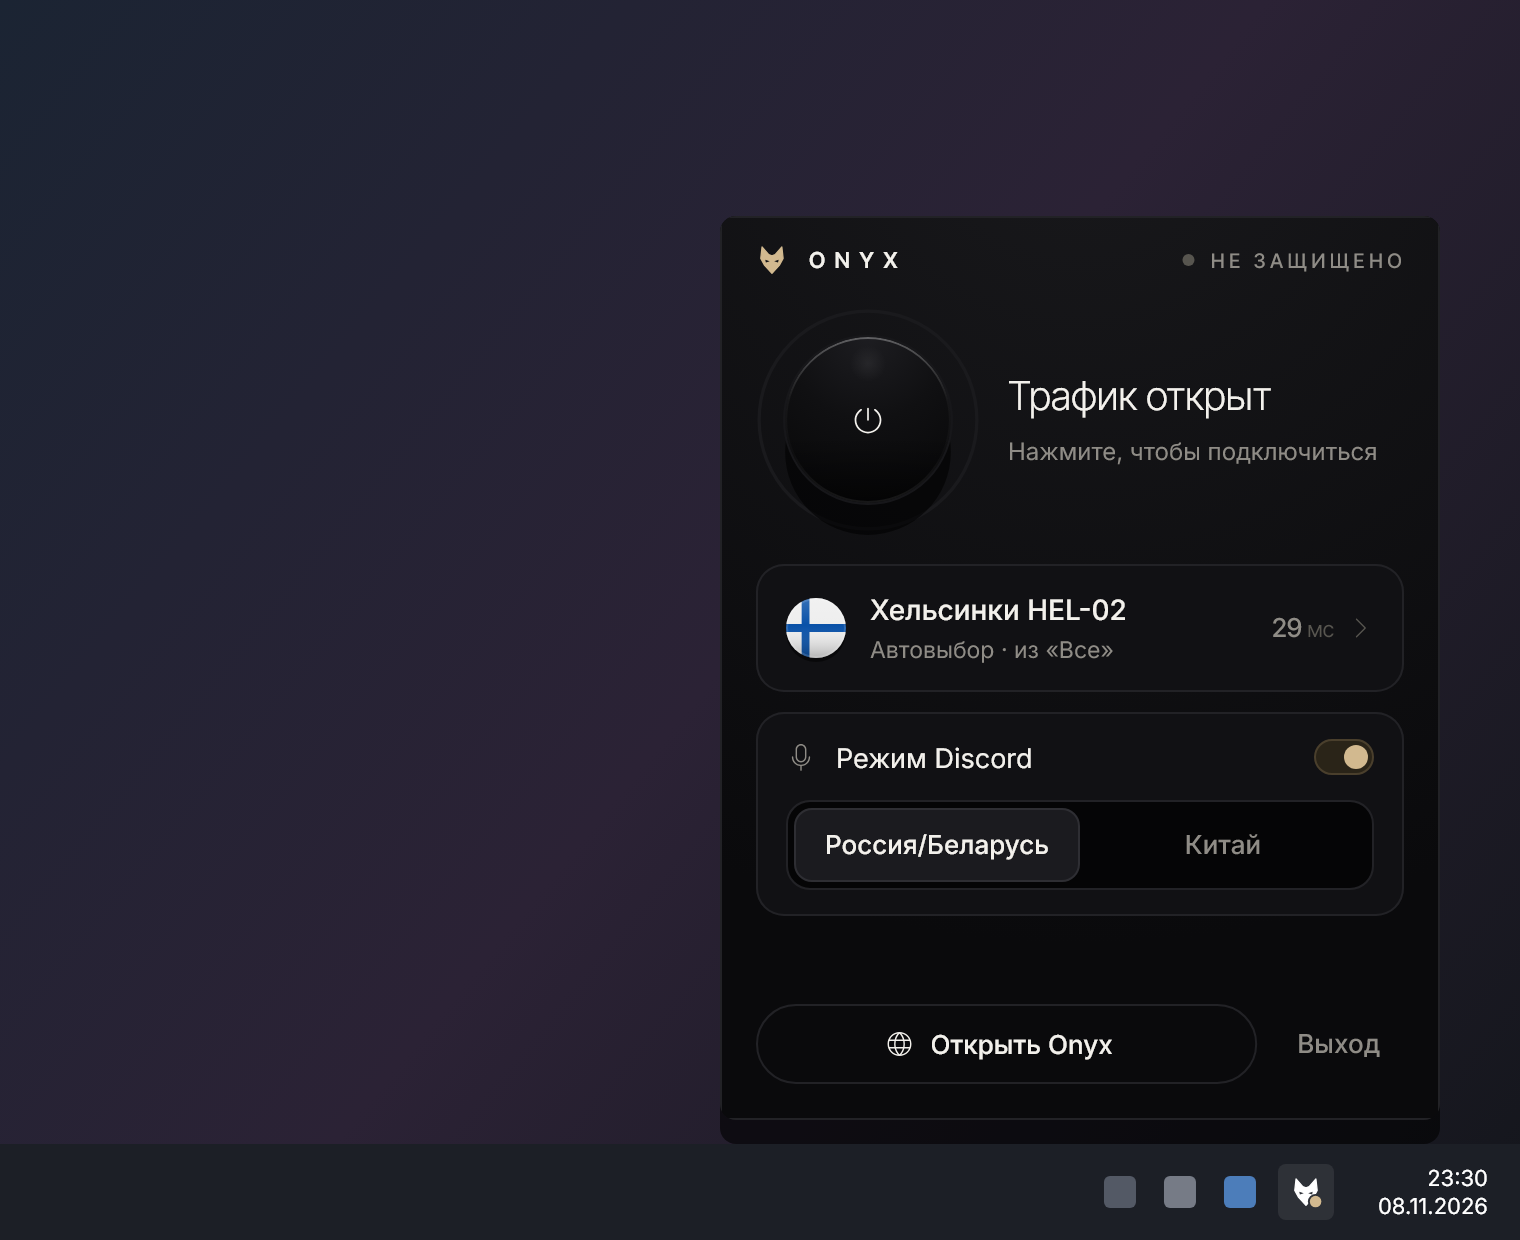
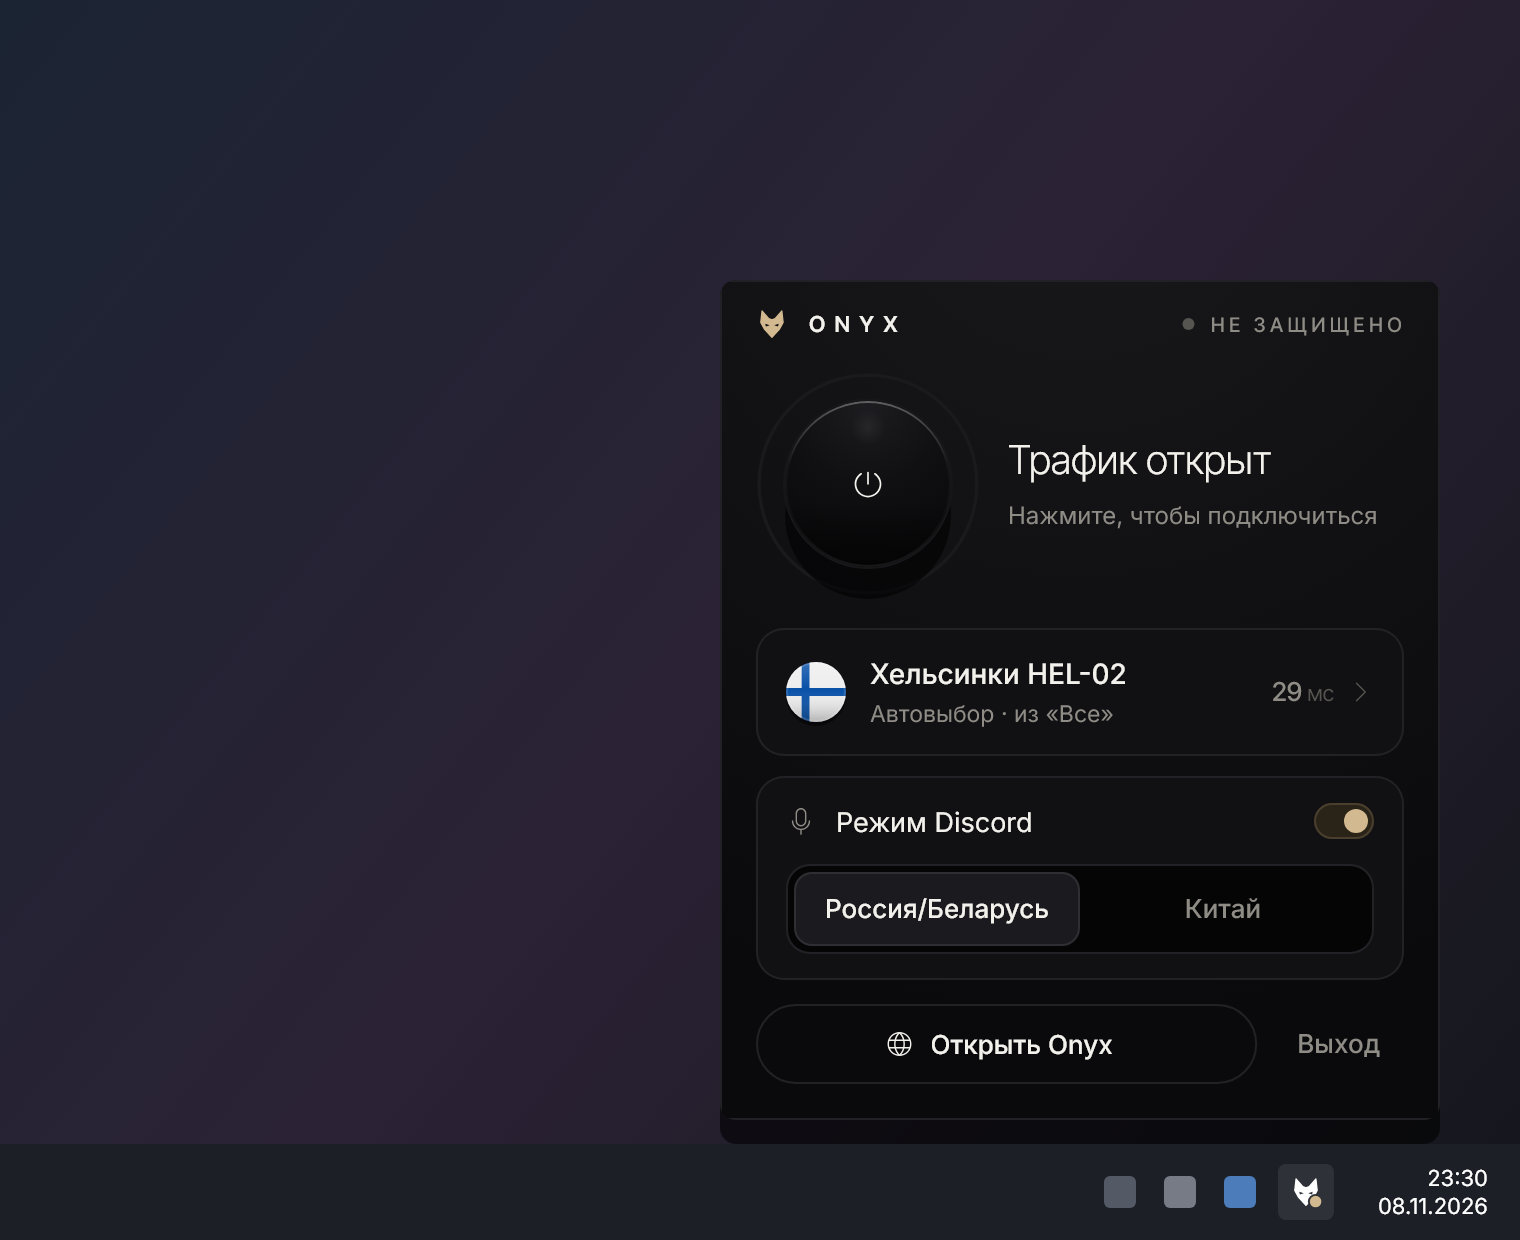
fix(tray): переходы окна по очереди, высота панели по содержимому (#46)
- Двойной клик по значку: второй щелчок приходил, пока панель ещё
  строилась, и терялся — переходы окна (панель, полное окно, трей) теперь
  идут строго по очереди.
- Высота панели 420 с выбором региона и 364 без него (умная маршрутизация
  выключена) — над кнопками больше нет пустоты; golden flyout-noregion.

Проверено на собранном exe: панель у значка в 12 px над панелью задач,
двойной клик возвращает полное окно на прежнее место, крестик выходит
через _exit().

diff --git a/lib/main.dart b/lib/main.dart
@@ -154,7 +154,8 @@ class _OnyxAppState extends ConsumerState<OnyxApp> with WindowListener, TrayList
   /// панели задач. Если значок не нашёлся — правый нижний угол основного
   /// монитора.
   Future<Rect> _flyoutRect() async {
-    const s = TrayFlyout.size, m = 12.0;
+    final s = TrayFlyout.sizeFor(region: ref.read(settingsProvider).smartRouting);
+    const m = 12.0;
     final (primary, areas) = await _workAreas();
     Rect? icon;
     try {
@@ -206,10 +207,24 @@ class _OnyxAppState extends ConsumerState<OnyxApp> with WindowListener, TrayList
     if (!_normalMaximized) _normalBounds = await windowManager.getBounds();
   }
 
+  Future<void> _queue = Future<void>.value();
+
+  /// Переходы окна — строго по очереди (второй щелчок двойного клика
+  /// приходит, пока панель ещё строится). Пока идёт переход, потеря фокуса и
+  /// сворачивание панель не трогают.
+  Future<void> _serial(Future<void> Function() step) => _queue = _queue.then((_) async {
+        _switching = true;
+        try {
+          await step();
+        } catch (e) {
+          log.w('Окно: переход не удался ($e)', tag: 'MAIN');
+        } finally {
+          _switching = false;
+        }
+      });
+
   Future<void> _showFlyout() async {
-    if (_switching) return;
-    _switching = true;
-    try {
+    await _serial(() async {
       final minimized = await windowManager.isMinimized();
       if (!_flyout) _flyoutFromWindow = !minimized && await windowManager.isVisible();
       // Из свёрнутого и развёрнутого состояний панель не построить: Windows
@@ -235,7 +250,7 @@ class _OnyxAppState extends ConsumerState<OnyxApp> with WindowListener, TrayList
       await windowManager.setAlwaysOnTop(true);
       await windowManager.setSkipTaskbar(true);
       await windowManager.setResizable(false);
-      await windowManager.setMinimumSize(TrayFlyout.size);
+      await windowManager.setMinimumSize(rect.size);
       await windowManager.setBounds(rect);
       await windowManager.show();
       await windowManager.focus();
@@ -244,58 +259,52 @@ class _OnyxAppState extends ConsumerState<OnyxApp> with WindowListener, TrayList
         await Future<void>.delayed(const Duration(milliseconds: 60));
         await windowManager.focus();
       }
-      await _tray?.sync();
-    } finally {
-      _switching = false;
-    }
+    });
+    await _tray?.sync();
   }
 
-  Future<void> _hideFlyout() async {
-    if (!_flyout || !_isVisible) return;
-    _lastFlyoutHide = DateTime.now();
-    _flyoutFromWindow = false;
-    setState(() => _isVisible = false);
-    await windowManager.hide();
-  }
+  Future<void> _hideFlyout() => _serial(() async {
+        if (!_flyout || !_isVisible) return;
+        _lastFlyoutHide = DateTime.now();
+        _flyoutFromWindow = false;
+        setState(() => _isVisible = false);
+        await windowManager.hide();
+      });
 
   /// Esc в панели: открыли поверх полного окна — к нему и вернуться.
   void _onFlyoutEsc() => _flyoutFromWindow ? _showWindow() : _hideFlyout();
 
   /// Полное окно Onyx (из панели, двойной клик по значку и т. п.).
-  Future<void> _showWindow() async {
-    if (_switching) return;
-    _switching = true;
-    try {
-      if (_flyout) {
-        setState(() => _flyout = false);
-        _flyoutFromWindow = false;
-        await windowManager.setAlwaysOnTop(false);
-        await windowManager.setSkipTaskbar(false);
-        await windowManager.setResizable(true);
-        await windowManager.setMinimumSize(_normalMin);
-        final (primary, _) = await _workAreas();
-        await windowManager.setBounds(_normalBounds ??
-            Rect.fromCenter(
-              center: primary.center,
-              width: math.min(_normalDefault.width, primary.width),
-              height: math.min(_normalDefault.height, primary.height),
-            ));
-      }
-      setState(() => _isVisible = true);
-      await windowManager.show();
-      await windowManager.restore();
-      if (_normalMaximized) await windowManager.maximize();
-      await windowManager.focus();
-    } finally {
-      _switching = false;
-    }
-  }
+  Future<void> _showWindow() => _serial(() async {
+        if (_flyout) {
+          setState(() => _flyout = false);
+          _flyoutFromWindow = false;
+          await windowManager.setAlwaysOnTop(false);
+          await windowManager.setSkipTaskbar(false);
+          await windowManager.setResizable(true);
+          await windowManager.setMinimumSize(_normalMin);
+          final (primary, _) = await _workAreas();
+          await windowManager.setBounds(_normalBounds ??
+              Rect.fromCenter(
+                center: primary.center,
+                width: math.min(_normalDefault.width, primary.width),
+                height: math.min(_normalDefault.height, primary.height),
+              ));
+        }
+        setState(() => _isVisible = true);
+        await windowManager.show();
+        await windowManager.restore();
+        if (_normalMaximized) await windowManager.maximize();
+        await windowManager.focus();
+      });
 
   /// «Свернуть»: Onyx уходит в трей и продолжает работу.
   Future<void> _hideToTray() async {
-    await _rememberNormal();
-    setState(() => _isVisible = false);
-    await windowManager.hide();
+    await _serial(() async {
+      await _rememberNormal();
+      setState(() => _isVisible = false);
+      await windowManager.hide();
+    });
     await LocalNotification(
       title: 'Onyx VPN',
       body: 'Onyx свернут в трей и продолжает работу.',

diff --git a/test/screens_golden_test.dart b/test/screens_golden_test.dart
@@ -19,6 +19,7 @@ import 'package:onyx/domain/entities/node.dart';
 import 'package:onyx/domain/entities/vpn_state.dart';
 import 'package:onyx/infrastructure/update_service.dart';
 import 'package:onyx/presentation/providers/groups_provider.dart';
+import 'package:onyx/presentation/providers/settings_provider.dart';
 import 'package:onyx/presentation/providers/sources_provider.dart';
 import 'package:onyx/presentation/providers/subscription_provider.dart';
 import 'package:onyx/presentation/providers/theme_provider.dart';
@@ -229,10 +230,10 @@ Widget flyoutScene(int frame) => Builder(builder: (context) {
             ]),
           ),
         ),
-        Positioned(
-          right: 40, bottom: 60,
-          width: TrayFlyout.size.width, height: TrayFlyout.size.height,
-          child: Container(
+        Consumer(builder: (_, ref, child) {
+          final size = TrayFlyout.sizeFor(region: ref.watch(settingsProvider).smartRouting);
+          return Positioned(right: 40, bottom: 60, width: size.width, height: size.height, child: child!);
+        }, child: Container(
             decoration: BoxDecoration(
               borderRadius: BorderRadius.circular(8),
               boxShadow: const [BoxShadow(color: Color(0x99000000), blurRadius: 32, offset: Offset(0, 12))],
@@ -243,6 +244,16 @@ Widget flyoutScene(int frame) => Builder(builder: (context) {
         ),
       ]);
     });
+
+/// Умная маршрутизация выключена — панель без выбора региона, ниже.
+Future<void> withoutSmartRouting(Future<void> Function() body) async {
+  SharedPreferences.setMockInitialValues({'settings_smart_routing': false});
+  try {
+    await body();
+  } finally {
+    SharedPreferences.setMockInitialValues({});
+  }
+}
 
 void main() {
   setUpAll(() async {
@@ -264,6 +275,10 @@ void main() {
         await tester.tap(find.text('Автовыбор · из «Все»').first, warnIfMissed: false);
         await tester.pump(const Duration(milliseconds: 400));
       });
+    });
+    testWidgets('${k.name} flyout noregion', (tester) async {
+      await withoutSmartRouting(() =>
+          shot(tester, '${k.name}-flyout-noregion', app(k, vpnOf('on'), Scaffold(body: flyoutScene(0))), const Size(760, 620), android: false));
     });
     for (final s in ['off', 'ing', 'on', 'err']) {
       testWidgets('${k.name} phone $s', (tester) async {

diff --git a/lib/presentation/tray/tray_flyout.dart b/lib/presentation/tray/tray_flyout.dart
@@ -52,7 +52,9 @@ class TrayFlyout extends ConsumerStatefulWidget {
   /// Меняется при каждом показе — перезапускает анимацию появления.
   final int showId;
 
-  static const Size size = Size(360, 452);
+  /// Размер панели. Без выбора региона (умная маршрутизация выключена) —
+  /// ниже на высоту переключателя, чтобы над кнопками не было пустоты.
+  static Size sizeFor({required bool region}) => Size(360, region ? 420 : 364);
 
   @override
   ConsumerState<TrayFlyout> createState() => _TrayFlyoutState();
